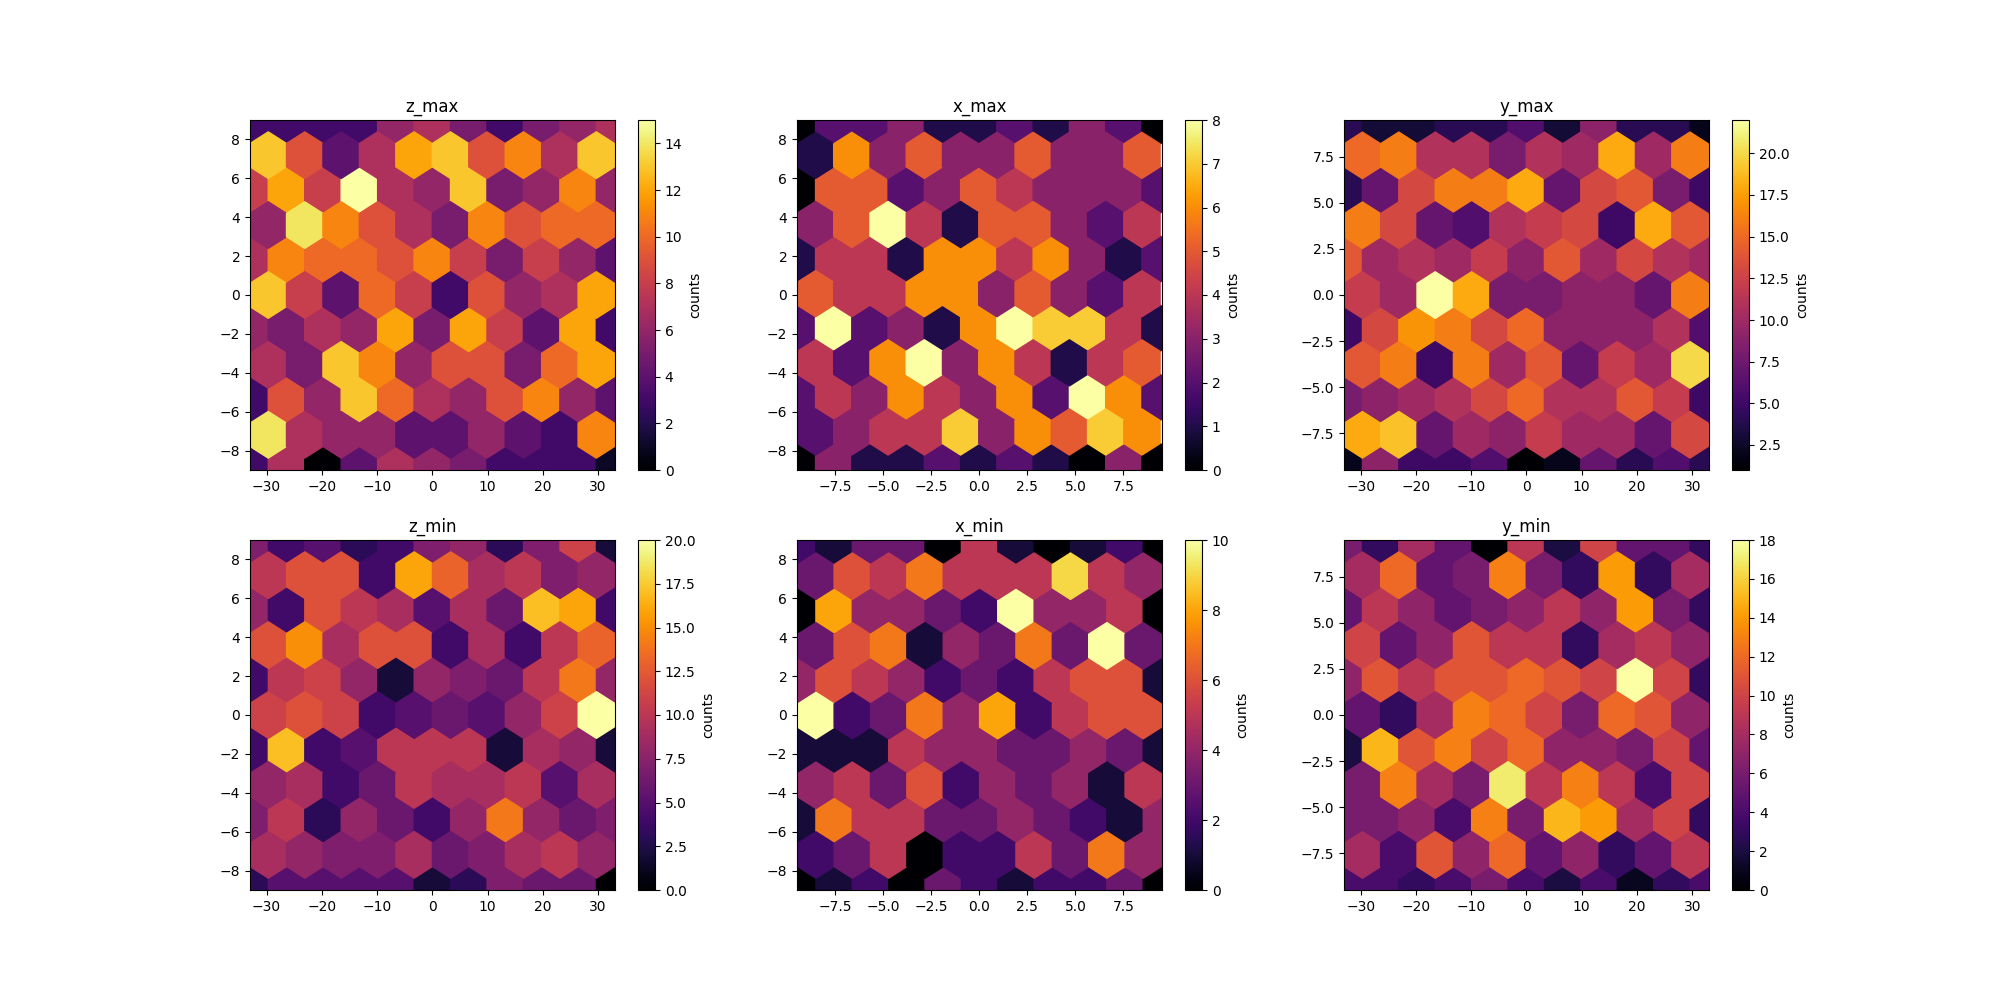
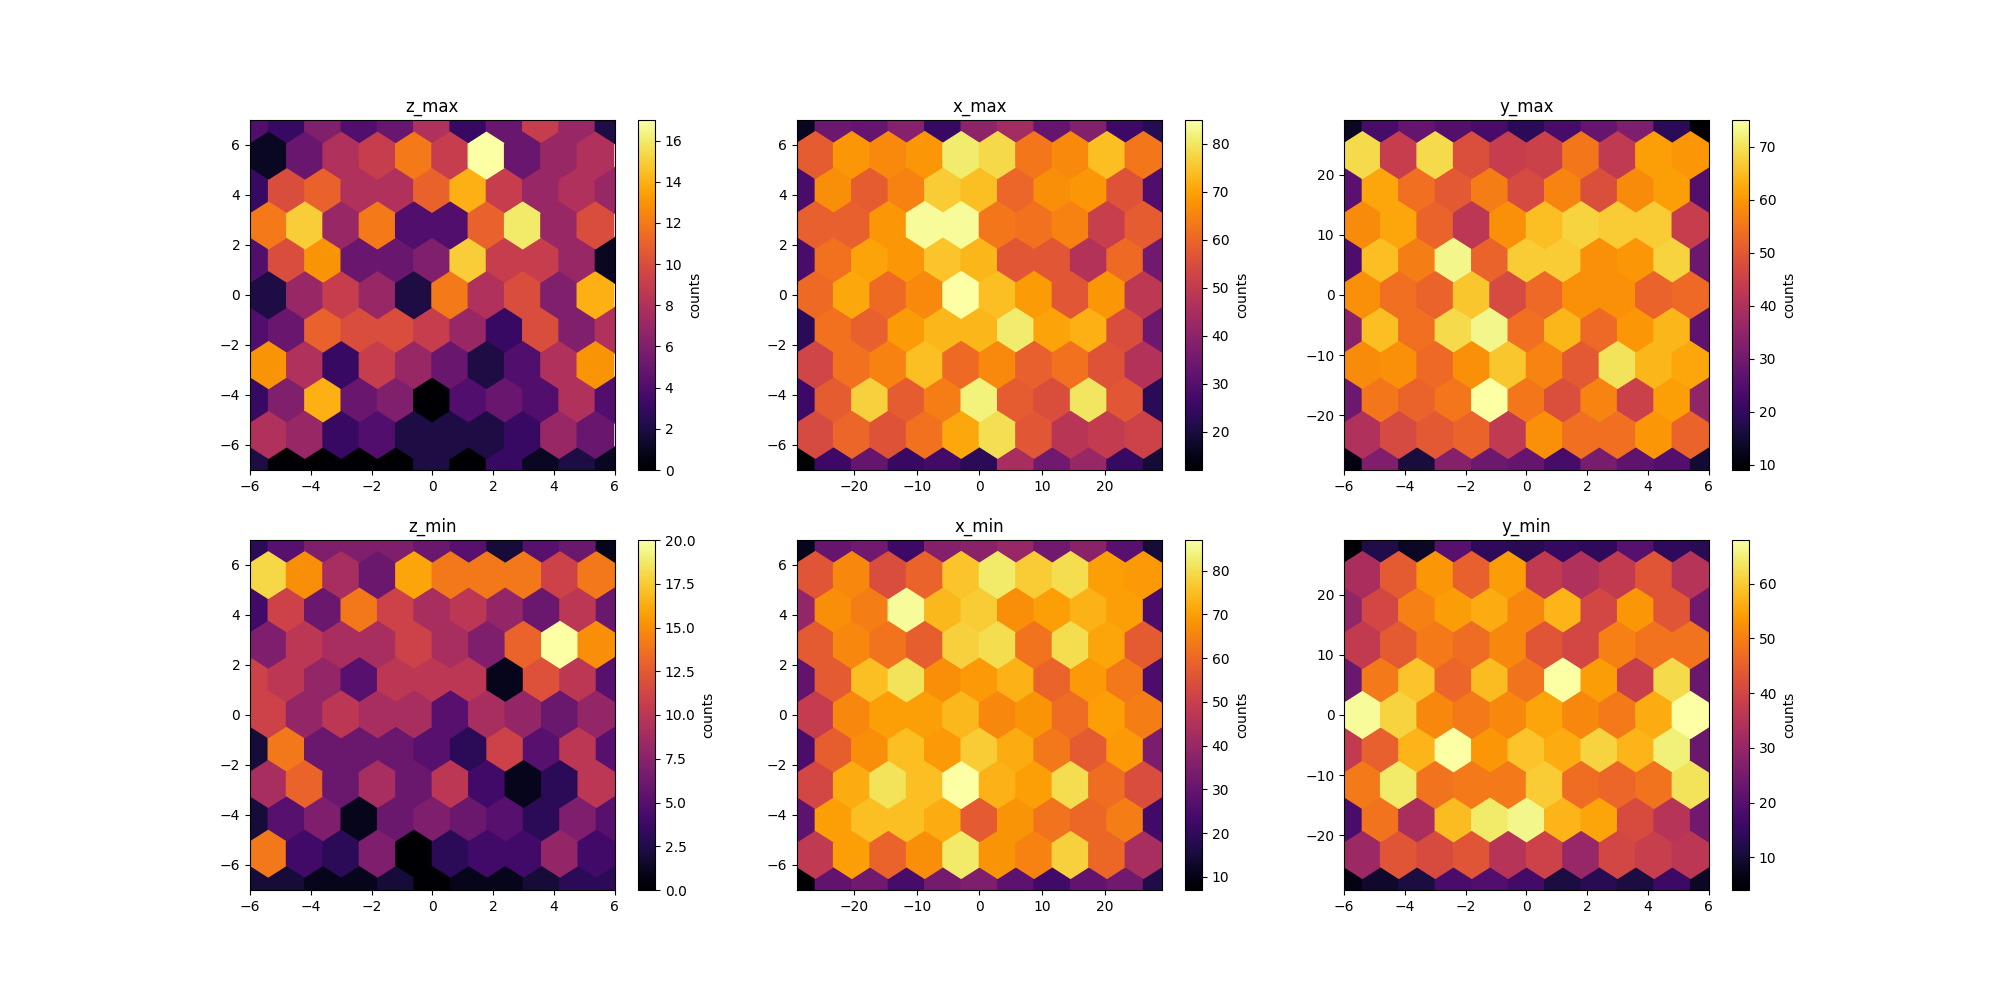
added new distribution plots and refined trajectory sampling efficiency

diff --git a/DM-trajectory.py b/DM-trajectory.py
@@ -1,37 +1,47 @@
-# simulating DM trajectory through target box
+# simulating DM trajectory through DUNE detector
 
 import numpy as np
 import uproot_methods as urm
 import matplotlib.pyplot as plt
 
 # -------------------------DETECTOR GEOMETRY--------------------------------
-# unsure of actual dimensions of DUNE detector
-# temporarily using scale of 66m x 19m x 18m centered around the origin
-z_max = 19 / 2
-z_min = -19 / 2
-y_max = 9
-y_min = -9
-x_max = 33
-x_min = -33
+# based on dimensions of DUNE detector -- sourced from TDR doc
+# using scale of 12 x 14 x 58.2m centered around the origin
+x_scale = 12
+y_scale = 14
+z_scale = 58.2
+
+x_max = x_scale / 2
+x_min = -x_scale / 2
+y_max = y_scale / 2
+y_min = -y_scale / 2
+z_max = z_scale / 2
+z_min = -z_scale / 2
 
 # r_max
 # must be large enough s.t. no matter disk orientation target is covered
-r_max = np.sqrt((x_max - x_min) ** 2 + (y_max - y_min) ** 2 + (z_max - z_min) ** 2)
+r_max = np.sqrt((x_scale ** 2) + (y_scale ** 2) + (z_scale ** 2))/2
 
 # store found entry and exit points
 entries = []
 exits = []
+
+# store c and phis to check distribution
+cs = []
+phis = []
 
 # iterate for some number of samples of trajectories
 for j in range(100000):
     # ------------------------DM DISK ORIENTATION------------------------
     # sample c uniformly from -1 to 1
     c = 2.0 * np.random.random() - 1.0
+    cs.append(c)
     # convert c to theta(azimuthal angle)
     theta = np.arccos(c)
 
     # sample phi(polar angle) uniformly from 0 to 2pi
     phi = 2.0 * np.pi * np.random.random()
+    phis.append(phi)
 
     # sample alpha(angle about disk) uniformly from 0 to 2pi
     alpha = 2.0 * np.pi * np.random.random()
@@ -105,84 +115,6 @@ for j in range(100000):
 
 
 # -----------------------PLOT FUNCTIONS-----------------------------------
-def all_face_hex_dist_plot(points, point_type):
-    """
-    :param points: either entry or exit points list
-    :param point_type: string of either entry or exit
-    :return: creates figure of hex dist plot for all 6 faces of detector
-    """
-    x_lim = x_min, x_max
-    y_lim = y_min, y_max
-    z_lim = z_min, z_max
-
-    fig, axs = plt.subplots(nrows=2, ncols=3, figsize=(20, 10))
-
-    x0 = []
-    y0 = []
-    x1 = []
-    y1 = []
-    z2 = []
-    y2 = []
-    z3 = []
-    y3 = []
-    x4 = []
-    z4 = []
-    x5 = []
-    z5 = []
-
-    for i in range(len(points)):
-        if points[i].z == z_max:
-            x0.append(points[i].x)
-            y0.append(points[i].y)
-        elif points[i].z == z_min:
-            x1.append(points[i].x)
-            y1.append(points[i].y)
-        elif points[i].x == x_max:
-            z2.append(points[i].z)
-            y2.append(points[i].y)
-        elif points[i].x == x_min:
-            z3.append(points[i].z)
-            y3.append(points[i].y)
-        elif points[i].y == y_max:
-            x4.append(points[i].x)
-            z4.append(points[i].z)
-        elif points[i].y == y_min:
-            x5.append(points[i].x)
-            z5.append(points[i].z)
-
-    hb = axs[0, 0].hexbin(x0, y0, gridsize=10, cmap='inferno')
-    axs[0, 0].set(xlim=x_lim, ylim=y_lim)
-    axs[0, 0].set_title('z_max')
-    cb = fig.colorbar(hb, ax=axs[0, 0], label='counts')
-
-    hb = axs[1, 0].hexbin(x1, y1, gridsize=10, cmap='inferno')
-    axs[1, 0].set(xlim=x_lim, ylim=y_lim)
-    axs[1, 0].set_title('z_min')
-    cb = fig.colorbar(hb, ax=axs[1, 0], label='counts')
-
-    hb = axs[0, 1].hexbin(z2, y2, gridsize=10, cmap='inferno')
-    axs[0, 1].set(xlim=z_lim, ylim=y_lim)
-    axs[0, 1].set_title('x_max')
-    cb = fig.colorbar(hb, ax=axs[0, 1], label='counts')
-
-    hb = axs[1, 1].hexbin(z3, y3, gridsize=10, cmap='inferno')
-    axs[1, 1].set(xlim=z_lim, ylim=y_lim)
-    axs[1, 1].set_title('x_min')
-    cb = fig.colorbar(hb, ax=axs[1, 1], label='counts')
-
-    hb = axs[0, 2].hexbin(x4, z4, gridsize=10, cmap='inferno')
-    axs[0, 2].set(xlim=x_lim, ylim=z_lim)
-    axs[0, 2].set_title('y_max')
-    cb = fig.colorbar(hb, ax=axs[0, 2], label='counts')
-
-    hb = axs[1, 2].hexbin(x5, z5, gridsize=10, cmap='inferno')
-    axs[1, 2].set(xlim=x_lim, ylim=z_lim)
-    axs[1, 2].set_title('y_min')
-    cb = fig.colorbar(hb, ax=axs[1, 2], label='counts')
-
-    plt.savefig('allPlotsHexDist' + point_type)
-
-
 def single_face_hex_dist_plot(points, face, point_type):
     """
     :param points: either entries or exits list
@@ -286,9 +218,192 @@ def rotating_plot(entries, exits):
         plt.pause(.00001)
 
 
+def all_face_hex_dist_plot(points, point_type):
+    """
+    NEED TO NORMALIZE COLOR SCALE
+    :param points: either entry or exit points list
+    :param point_type: string of either entry or exit
+    :return: creates figure of hex dist plot for all 6 faces of detector
+    """
+    x_lim = x_min, x_max
+    y_lim = y_min, y_max
+    z_lim = z_min, z_max
+
+    fig, axs = plt.subplots(nrows=2, ncols=3, figsize=(20, 10))
+
+    x0 = []
+    y0 = []
+    x1 = []
+    y1 = []
+    z2 = []
+    y2 = []
+    z3 = []
+    y3 = []
+    x4 = []
+    z4 = []
+    x5 = []
+    z5 = []
+
+    for i in range(len(points)):
+        if points[i].z == z_max:
+            x0.append(points[i].x)
+            y0.append(points[i].y)
+        elif points[i].z == z_min:
+            x1.append(points[i].x)
+            y1.append(points[i].y)
+        elif points[i].x == x_max:
+            z2.append(points[i].z)
+            y2.append(points[i].y)
+        elif points[i].x == x_min:
+            z3.append(points[i].z)
+            y3.append(points[i].y)
+        elif points[i].y == y_max:
+            x4.append(points[i].x)
+            z4.append(points[i].z)
+        elif points[i].y == y_min:
+            x5.append(points[i].x)
+            z5.append(points[i].z)
+
+    hb = axs[0, 0].hexbin(x0, y0, gridsize=10, cmap='inferno')
+    axs[0, 0].set(xlim=x_lim, ylim=y_lim)
+    axs[0, 0].set_title('z_max')
+    cb = fig.colorbar(hb, ax=axs[0, 0], label='counts')
+
+    hb = axs[1, 0].hexbin(x1, y1, gridsize=10, cmap='inferno')
+    axs[1, 0].set(xlim=x_lim, ylim=y_lim)
+    axs[1, 0].set_title('z_min')
+    cb = fig.colorbar(hb, ax=axs[1, 0], label='counts')
+
+    hb = axs[0, 1].hexbin(z2, y2, gridsize=10, cmap='inferno')
+    axs[0, 1].set(xlim=z_lim, ylim=y_lim)
+    axs[0, 1].set_title('x_max')
+    cb = fig.colorbar(hb, ax=axs[0, 1], label='counts')
+
+    hb = axs[1, 1].hexbin(z3, y3, gridsize=10, cmap='inferno')
+    axs[1, 1].set(xlim=z_lim, ylim=y_lim)
+    axs[1, 1].set_title('x_min')
+    cb = fig.colorbar(hb, ax=axs[1, 1], label='counts')
+
+    hb = axs[0, 2].hexbin(x4, z4, gridsize=10, cmap='inferno')
+    axs[0, 2].set(xlim=x_lim, ylim=z_lim)
+    axs[0, 2].set_title('y_max')
+    cb = fig.colorbar(hb, ax=axs[0, 2], label='counts')
+
+    hb = axs[1, 2].hexbin(x5, z5, gridsize=10, cmap='inferno')
+    axs[1, 2].set(xlim=x_lim, ylim=z_lim)
+    axs[1, 2].set_title('y_min')
+    cb = fig.colorbar(hb, ax=axs[1, 2], label='counts')
+
+    plt.savefig('allPlotsHexDist' + point_type)
+
+
+def one_dim_hist_all_faces(points, point_type):
+    """
+    :param points: either entry or exit list
+    :param point_type: string of either "entry" or "exit"
+    :return: 12 histograms, 2 per face of point distribution & prints total points on each face
+    """
+    x_lim = x_min, x_max
+    y_lim = y_min, y_max
+    z_lim = z_min, z_max
+
+    fig, axs = plt.subplots(nrows=2, ncols=6, figsize=(40, 10))
+
+    x0 = []
+    y0 = []
+    x1 = []
+    y1 = []
+    z2 = []
+    y2 = []
+    z3 = []
+    y3 = []
+    x4 = []
+    z4 = []
+    x5 = []
+    z5 = []
+
+    for i in range(len(points)):
+        if points[i].z == z_max:
+            x0.append(points[i].x)
+            y0.append(points[i].y)
+        elif points[i].z == z_min:
+            x1.append(points[i].x)
+            y1.append(points[i].y)
+        elif points[i].x == x_max:
+            z2.append(points[i].z)
+            y2.append(points[i].y)
+        elif points[i].x == x_min:
+            z3.append(points[i].z)
+            y3.append(points[i].y)
+        elif points[i].y == y_max:
+            x4.append(points[i].x)
+            z4.append(points[i].z)
+        elif points[i].y == y_min:
+            x5.append(points[i].x)
+            z5.append(points[i].z)
+
+    axs[0, 0].hist(x0, range=x_lim)
+    axs[0, 0].set_title('face 0 @z_max x dim')
+    axs[1, 0].hist(y0, range=y_lim)
+    axs[1, 0].set_title('face 0 @z_max y dim')
+
+    axs[0, 1].hist(x1, range=x_lim)
+    axs[0, 1].set_title('face 1 @z_min x dim')
+    axs[1, 1].hist(y1, range=y_lim)
+    axs[1, 1].set_title('face 1 @z_min y dim')
+
+    axs[0, 2].hist(z2, range=z_lim)
+    axs[0, 2].set_title('face 2 @x_max z dim')
+    axs[1, 2].hist(y2, range=y_lim)
+    axs[1, 2].set_title('face 2 @x_max y dim')
+
+    axs[0, 3].hist(z3, range=z_lim)
+    axs[0, 3].set_title('face 3 @x_min z dim')
+    axs[1, 3].hist(y3, range=y_lim)
+    axs[1, 3].set_title('face 3 @x_min y dim')
+
+    axs[0, 4].hist(x4, range=x_lim)
+    axs[0, 4].set_title('face 4 @y_max x dim')
+    axs[1, 4].hist(z4, range=z_lim)
+    axs[1, 4].set_title('face 4 @y_max z dim')
+
+    axs[0, 5].hist(x5, range=x_lim)
+    axs[0, 5].set_title('face 5 @y_min x dim')
+    axs[1, 5].hist(z5, range=z_lim)
+    axs[1, 5].set_title('face 5 @y_min z dim')
+
+    plt.savefig('1DhistAllFaces' + point_type)
+
+    print(point_type)
+    print('face 0 total points: ', len(x0) + len(y0))
+    print('face 1 total points: ', len(x1) + len(y1))
+    print('face 2 total points: ', len(z2) + len(y2))
+    print('face 3 total points: ', len(z3) + len(y3))
+    print('face 4 total points: ', len(x4) + len(z4))
+    print('face 5 total points: ', len(x5) + len(z5))
+
+
+def costheta_phi_hist(cs, phis):
+    """
+    :param cs: set of all sampled c values c = cosTheta
+    :param phis: set of all sampled phi values
+    :return: histograms of both cosTheta and Phi
+    """
+
+    fig, axs = plt.subplots(nrows=1, ncols=2)
+    axs[0].hist(cs)
+    axs[0].set_title('cosTheta')
+    axs[1].hist(phis)
+    axs[1].set_title('phi')
+    plt.savefig('cosThetaPhiDist')
+
+
 # ----------------------FUNCTION TEST CALLS------------------------
 # single_face_hex_dist_plot(exits, "y_min", "exit")
 # single_face_hex_dist_plot(entries, "z_max", "entry")
 # rotating_plot(entries, exits)
 # all_face_hex_dist_plot(entries, 'entry')
 # all_face_hex_dist_plot(exits, 'exit')
+# one_dim_hist_all_faces(entries, "entry")
+# one_dim_hist_all_faces(exits, "exit")
+costheta_phi_hist(cs, phis)
